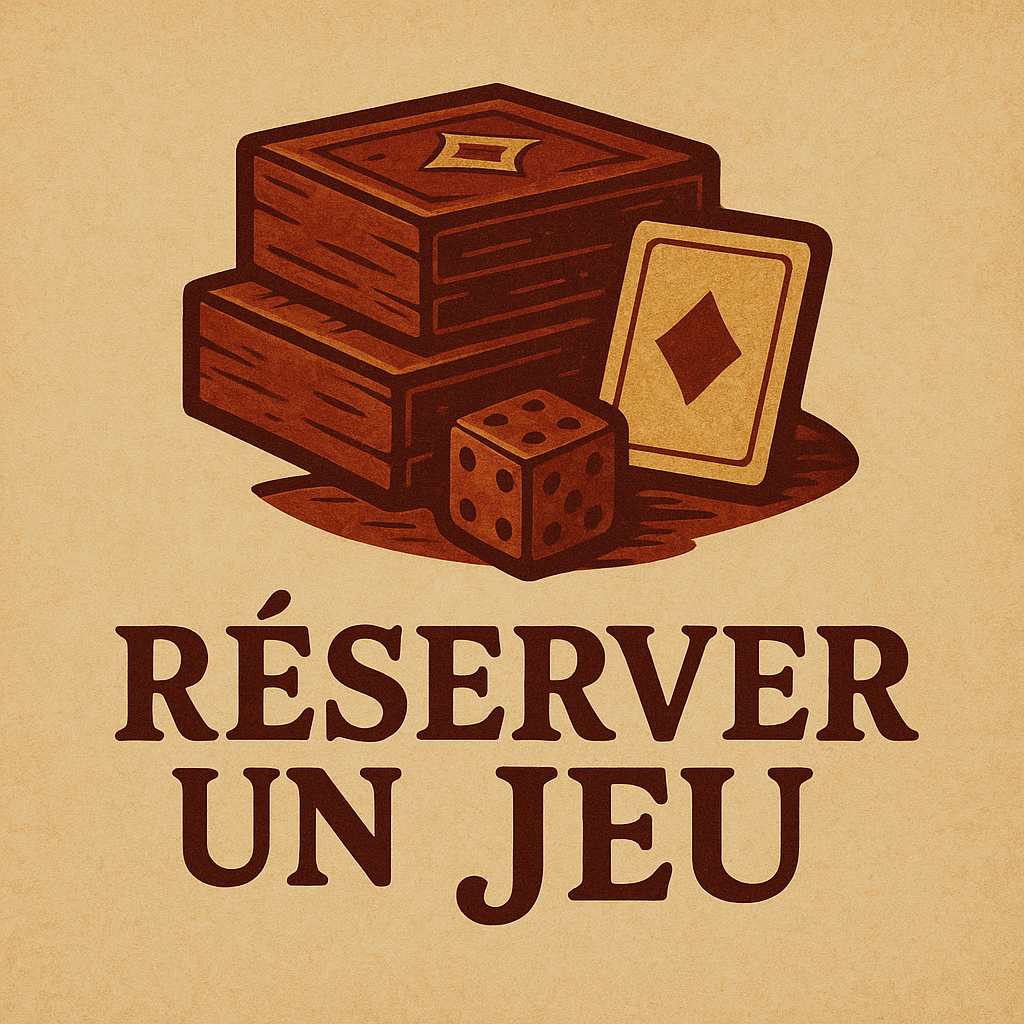
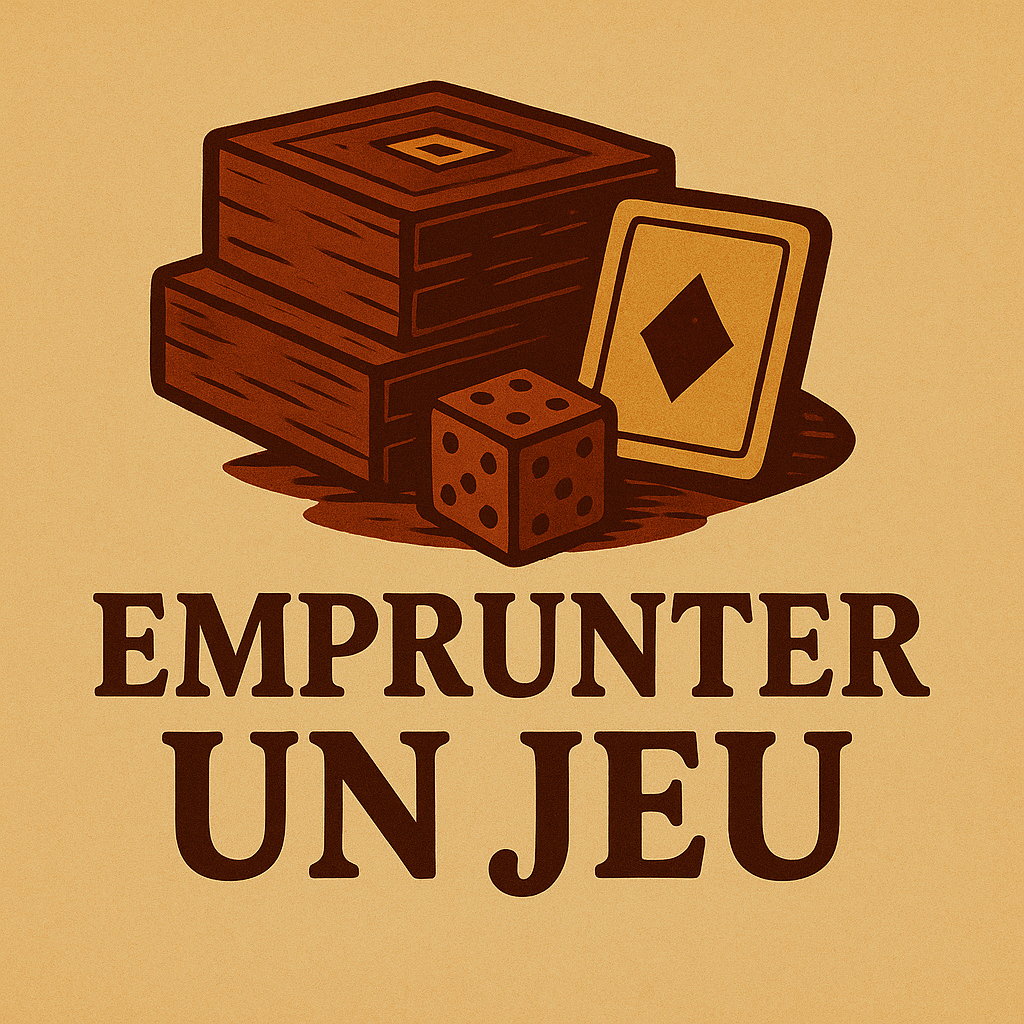
Ajout d'un guard pour les roles pour bloquer les routes

diff --git a/projet_groupe4_angular/src/app/app.routes.ts b/projet_groupe4_angular/src/app/app.routes.ts
@@ -7,11 +7,13 @@ import { HomePage } from './page/home-page/home-page';
 import { JeuPage } from './page/jeu-page/jeu-page';
 import { LoginPage } from './page/login-page/login-page';
 import { InscriptionPage } from './page/inscription-page/inscription-page';
+import { roleGuard } from './guard/role-guard';
+
 export const routes: Routes = [
-  { path: 'table', component: TablePage, canActivate: [authGuard] },
-  { path: 'jeu', component: JeuPage, canActivate: [authGuard] },
-  { path: 'client', component: ClientPage, canActivate: [authGuard] },
-  { path: 'admin', component: AdminPage, canActivate: [authGuard] },
+  { path: 'table', component: TablePage, canActivate: [authGuard, roleGuard], data: { role: 'ROLE_CLIENT' } },
+  { path: 'jeu', component: JeuPage, canActivate: [authGuard, roleGuard],data: { role: 'ROLE_CLIENT' } },
+  { path: 'client', component: ClientPage, canActivate: [authGuard, roleGuard],data: { role: 'ROLE_CLIENT' } },
+  { path: 'admin', component: AdminPage, canActivate: [authGuard, roleGuard],data: { role: 'ROLE_EMPLOYE' } },
   { path: 'home', component: HomePage },
   { path: 'login', component: LoginPage },
   { path: 'inscription', component: InscriptionPage },

diff --git a/projet_groupe4_angular/src/app/page/home-page/home-page.html b/projet_groupe4_angular/src/app/page/home-page/home-page.html
@@ -47,10 +47,10 @@
 <!-- à développer ??-->
 <div class="bloc-resa" *ngIf="prenom && role === 'ROLE_CLIENT'">
   <a routerLink="/jeu">
-    <img src="assets/images/resa_jeu.png" alt="Réservation de jeu" class="logo_resa" />
+    <img src="assets/images/resa_jeu.png" alt="Emprunter un jeu" class="logo_resa" />
   </a>
   <a routerLink="/jeu" class="class_resa">
-    <h2>Réserver un jeu</h2>
+    <h2>Emprunter un jeu</h2>
     <p>
       Une ludothèque variée où chaque dé lancé et chaque carte jouée rapprochent les joueurs autour
       de moments inoubliables.
@@ -81,7 +81,7 @@
       </ol>
     </div>
     <div *ngIf="prenom && role === 'ROLE_CLIENT'">
-      <a routerLink="/jeu"><input type="button" value="Louer un jeu" class="btn" /></a>
+      <a routerLink="/jeu"><input type="button" value="Emprunter un jeu" class="btn" /></a>
       <a routerLink="/table"><input type="button" value="Réserver une table" class="btn" /></a>
     </div>
   </div>

diff --git a/projet_groupe4_angular/src/app/page/header/header.html b/projet_groupe4_angular/src/app/page/header/header.html
@@ -15,7 +15,7 @@
    <!--  Liens visibles uniquement si connecté -->
     <ng-container *ngIf="isLoggedIn$ | async">
       <a *ngIf="role == 'ROLE_CLIENT'" routerLink="/table" routerLinkActive="active">Réservation de table</a>
-      <a *ngIf="role == 'ROLE_CLIENT'" routerLink="/jeu" routerLinkActive="active">Location de jeu</a>
+      <a *ngIf="role == 'ROLE_CLIENT'" routerLink="/jeu" routerLinkActive="active">Emprunt de jeu</a>
       <a *ngIf="role == 'ROLE_CLIENT'" routerLink="/client" routerLinkActive="active">Compte</a>
       <a *ngIf="role == 'ROLE_EMPLOYE'" routerLink="/admin" routerLinkActive="active">Admin</a>
       <a (click)="logout()">Se déconnecter</a>

diff --git a/projet_groupe4_angular/src/app/guard/role-guard.ts b/projet_groupe4_angular/src/app/guard/role-guard.ts
@@ -1,0 +1,18 @@
+import { inject } from '@angular/core';
+import { CanActivateFn, Router } from '@angular/router';
+import { AuthService } from '../service/auth-service';
+
+export const roleGuard: CanActivateFn = (route, state) => {
+  const router = inject(Router);
+  const authService = inject(AuthService);
+
+  const expectedRole = route.data['role'] as string; 
+  const userRole = authService.role;
+
+  if (authService.token && userRole === expectedRole) {
+    return true; // accès autorisé
+  }
+
+  // sinon, rediriger vers la page login ou home
+  return router.createUrlTree(['/login']);
+};

diff --git a/projet_groupe4_angular/src/app/guard/role-guard.spec.ts b/projet_groupe4_angular/src/app/guard/role-guard.spec.ts
@@ -1,0 +1,17 @@
+import { TestBed } from '@angular/core/testing';
+import { CanActivateFn } from '@angular/router';
+
+import { roleGuard } from './role-guard';
+
+describe('roleGuard', () => {
+  const executeGuard: CanActivateFn = (...guardParameters) => 
+      TestBed.runInInjectionContext(() => roleGuard(...guardParameters));
+
+  beforeEach(() => {
+    TestBed.configureTestingModule({});
+  });
+
+  it('should be created', () => {
+    expect(executeGuard).toBeTruthy();
+  });
+});
